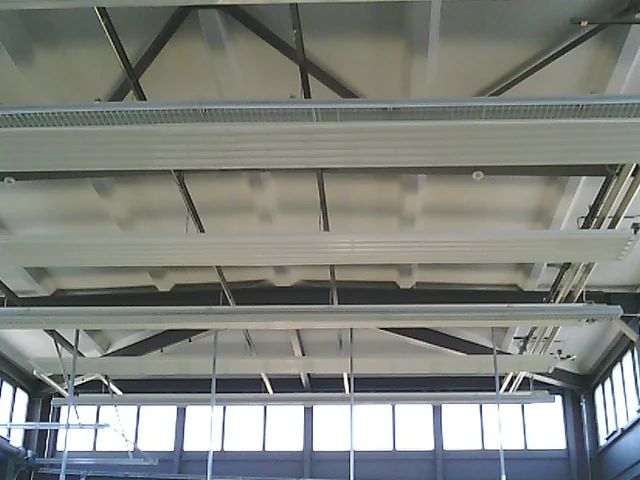
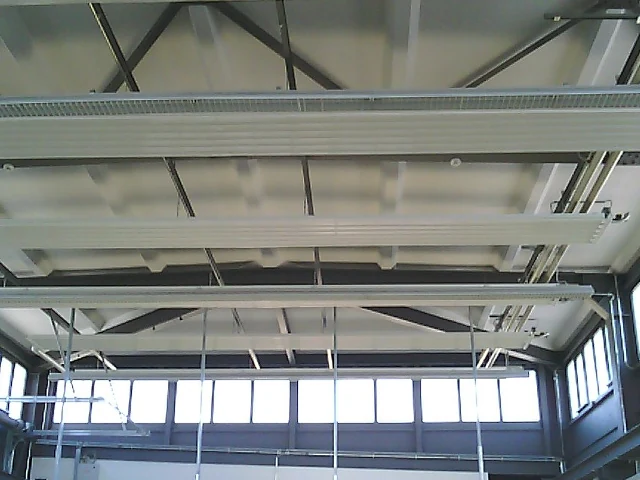
Thermografie genauer ausgerichtet, Teamfoto im Kontaktbereich

diff --git a/index.html b/index.html
@@ -24,8 +24,8 @@
 
 	<link rel="preload" href="assets/fonts/readex-pro-latin.woff2" as="font" type="font/woff2" crossorigin>
 	<link rel="preload" href="assets/images/hero-gebaeude-1600x900.webp" as="image" imagesrcset="assets/images/hero-gebaeude-960x540.webp 960w, assets/images/hero-gebaeude-1600x900.webp 1600w" imagesizes="100vw">
-	<link rel="stylesheet" href="assets/styles/main.css?v=20261019a">
-	<script src="assets/scripts/main.js?v=20261019a" defer></script>
+	<link rel="stylesheet" href="assets/styles/main.css?v=20261019b">
+	<script src="assets/scripts/main.js?v=20261019b" defer></script>
 
 	<script type="application/ld+json">
 	{
@@ -475,9 +475,9 @@
 		</section>
 
 		<section class="contact" aria-labelledby="kontakt-titel">
-			<img class="contact__bg" src="assets/images/buero-nibelungenstrasse-1600x900.webp"
-				srcset="assets/images/buero-nibelungenstrasse-960x540.webp 960w, assets/images/buero-nibelungenstrasse-1600x900.webp 1600w"
-				sizes="100vw" width="1600" height="900" loading="lazy" alt="">
+			<img class="contact__bg" src="assets/images/team-1500x1000.webp"
+				srcset="assets/images/team-800x533.webp 800w, assets/images/team-1500x1000.webp 1500w"
+				sizes="100vw" width="1500" height="1000" loading="lazy" alt="">
 			<div class="container contact__grid">
 				<div class="contact__text">
 					<h2 class="section-title" id="kontakt-titel">Sprechen Sie uns an.</h2>

diff --git a/assets/styles/main.css b/assets/styles/main.css
@@ -1454,7 +1454,7 @@ address {
 	width: 100%;
 	height: 100%;
 	object-fit: cover;
-	object-position: center 40%;
+	object-position: center 30%;
 }
 
 .contact::before {
